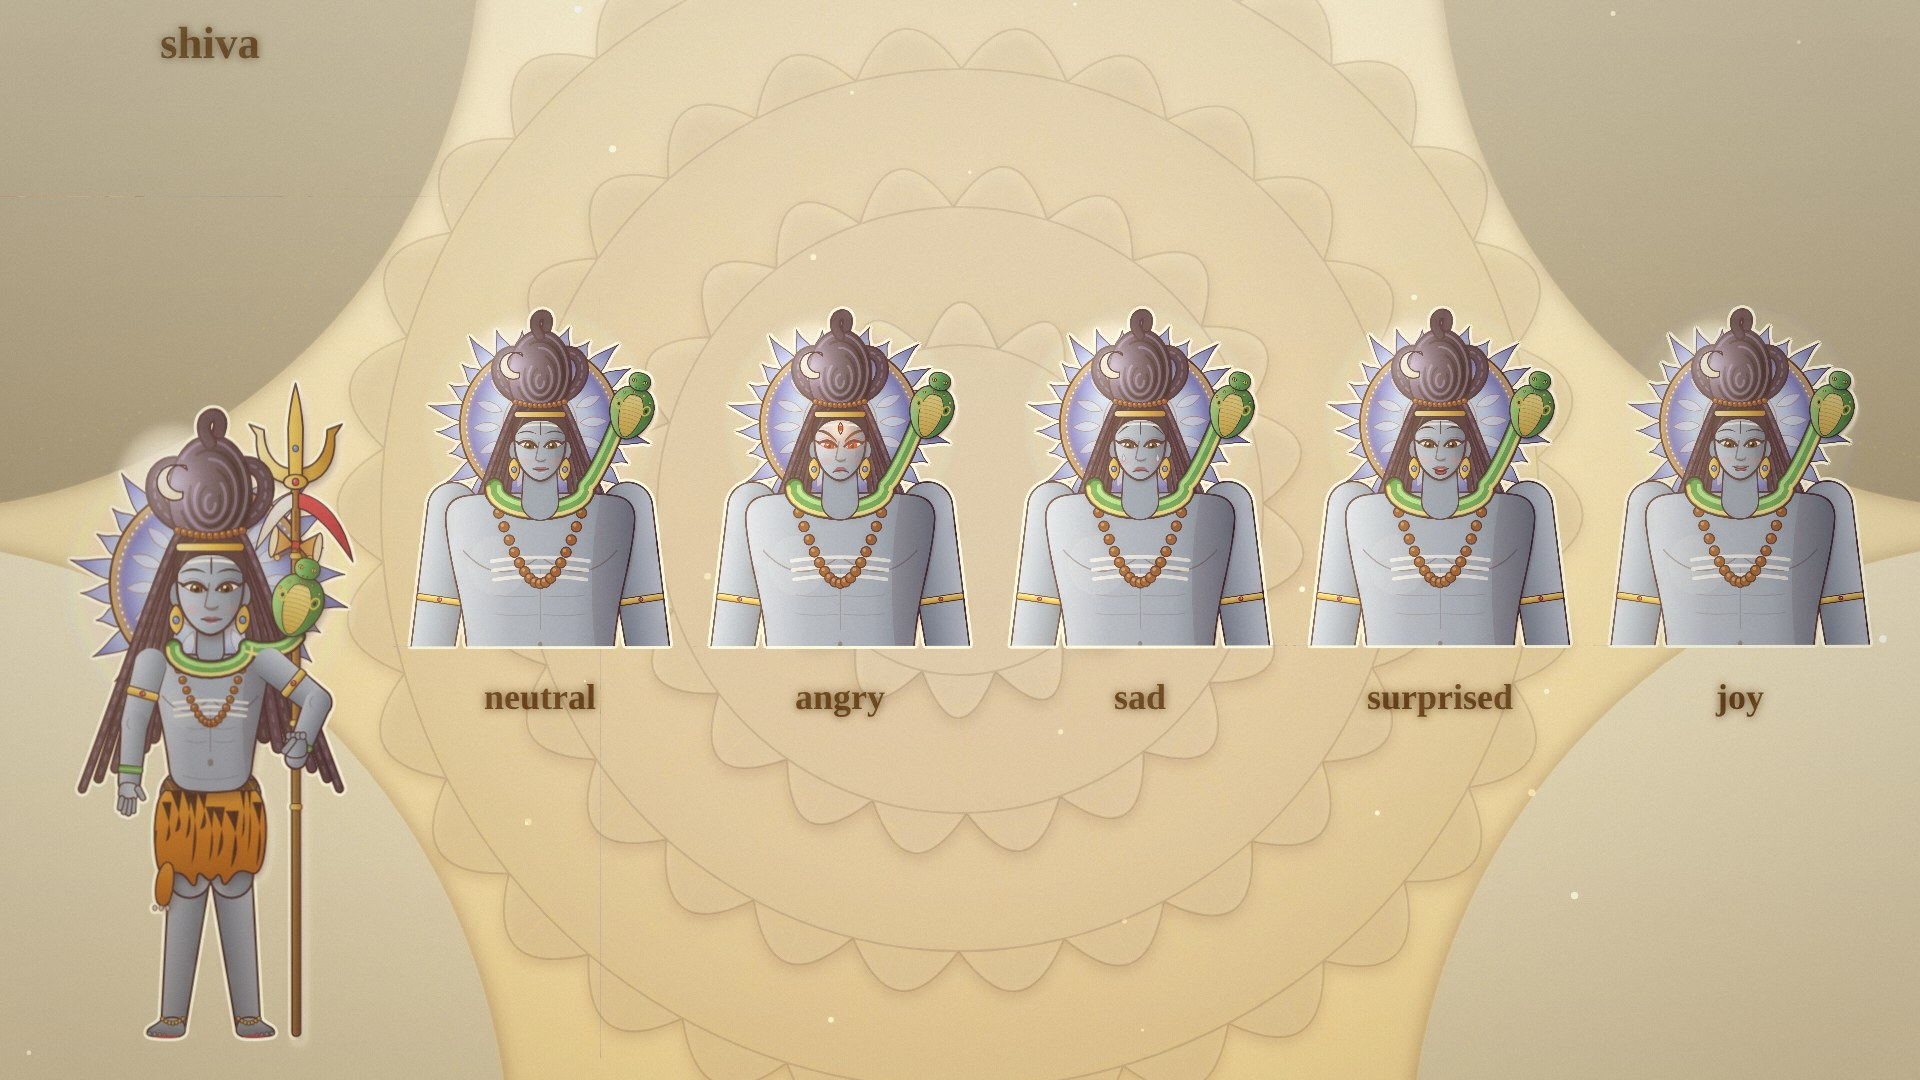
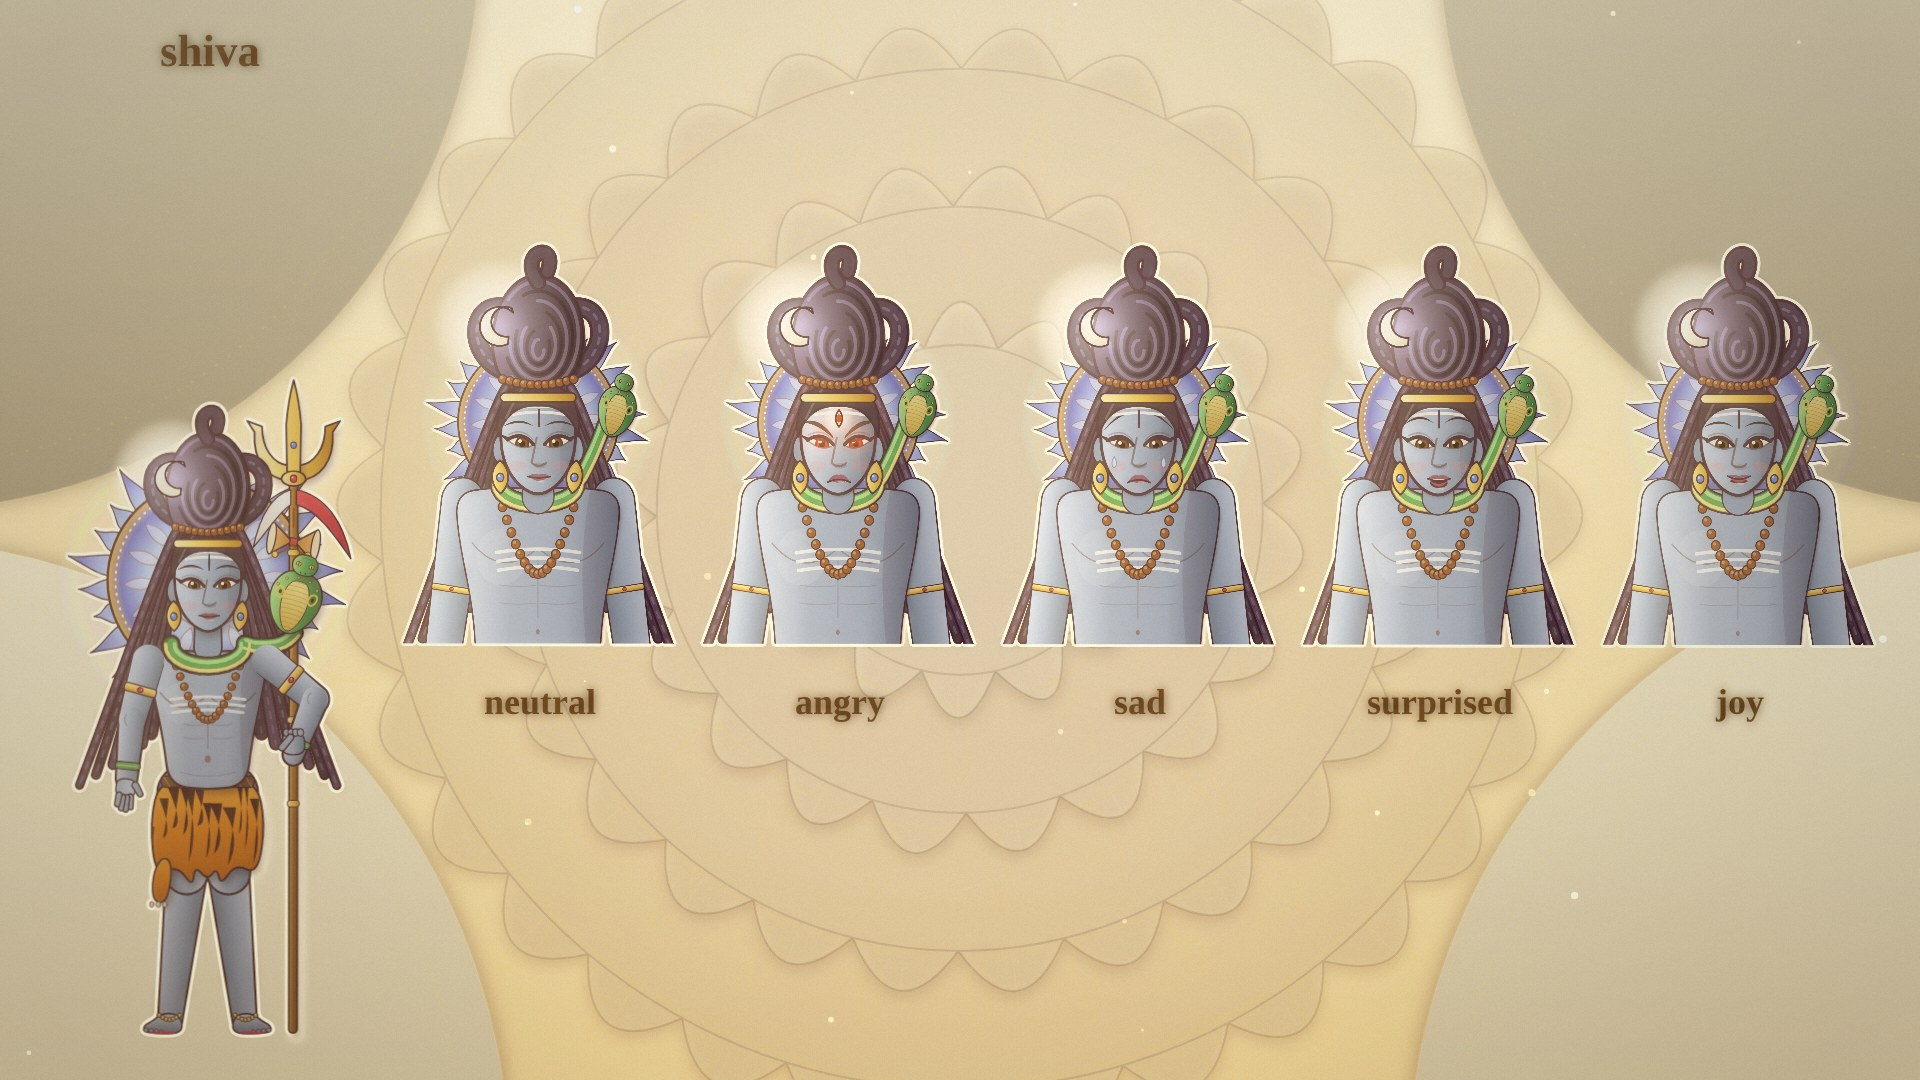
Shiva close-up bust: larger head, narrower shoulders; re-render Shiva sheets
Claude-Session: https://claude.ai/code/session_01Ec4SCjc7mpKu4xcSrfyjyA

diff --git a/engine/v2_cast.js b/engine/v2_cast.js
@@ -456,7 +456,7 @@ function bust(c,S,o){const sk=skinPK(S),t=o.t||0,bw=Math.min(S.build||1,1.2);c.s
 function v2head(who,x,y,s,t,o){ // close-up of the head with neck, shoulders and garments
   const OYH=1300,FR=clamp(s*SC_,2,3.9),RG=[-300,-330,600,640];const c=figBegin(FR,OYH,RG);PK.setDPR(FR);const ex=o.expr||{},kk=ex.brow!=null&&ex.brow<-.2?clamp(-ex.brow*1.1,0,1):0,face=ex.eye!=null&&ex.eye<.5?'closed':'calm';
   if(o.flip<0)c.scale(-1,1);c.scale(1.32,1.32);const M=o.mood,turn=o.tilt?0:.06;
-  if(who==='shiva'){const S=CAST.shiva;c.translate(0,-6);c.scale(.86,.86);PK.halo(c,0,-30,112,t,Object.assign({g:.55,n:26},S.halo));c.save();c.scale(1.1,1.1);hairBack(c,S,{hd:[0,0],ph:[0,200]},t);c.restore();bust(c,S,{t:t,k:kk});c.save();c.scale(1.1,1.1);drawHead(c,0,0,{expr:face==='closed'?'closed':'calm',k:kk,S:S,t:t,mood:M,turn:turn});hairFront(c,S,0,0,t);c.restore()}
+  if(who==='shiva'){const S=CAST.shiva;c.translate(0,-6);c.scale(.86,.86);PK.halo(c,0,-30,112,t,Object.assign({g:.55,n:26},S.halo));c.save();c.scale(1.5,1.5);hairBack(c,S,{hd:[0,0],ph:[0,200]},t);c.restore();c.save();c.scale(.86,.95);bust(c,S,{t:t,k:kk});c.restore();c.save();c.scale(1.6,1.6);drawHead(c,0,0,{expr:face==='closed'?'closed':'calm',k:kk,S:S,t:t,mood:M,turn:turn});hairFront(c,S,0,0,t);c.restore()}
   else if(who==='brahma'){const S=BRAHMA;PK.halo(c,0,-40,108,t,{g:.5,n:26});bust(c,S,{t:t});
     const side=(x2,tn)=>{c.save();c.translate(x2,12);c.scale(.8,.8);c.filter='brightness(.8)';drawHead(c,0,0,{expr:face,k:kk*.8,S:S,t:t+x2*.01,mood:Object.assign({smile:.2},M&&M.sad?{sad:M.sad*.8}:{}),turn:tn});c.save();c.scale(1-Math.abs(tn)*.3,1);PK.hairCap(c,'#e6e0da');PK.jataMukuta(c);c.restore();c.filter='none';c.restore()};
     side(-62,-.6);side(62,.6);drawHead(c,0,0,{expr:face,k:kk,S:S,t:t,mood:M,turn:turn});PK.hairCap(c,'#e6e0da');PK.jataMukuta(c)}
